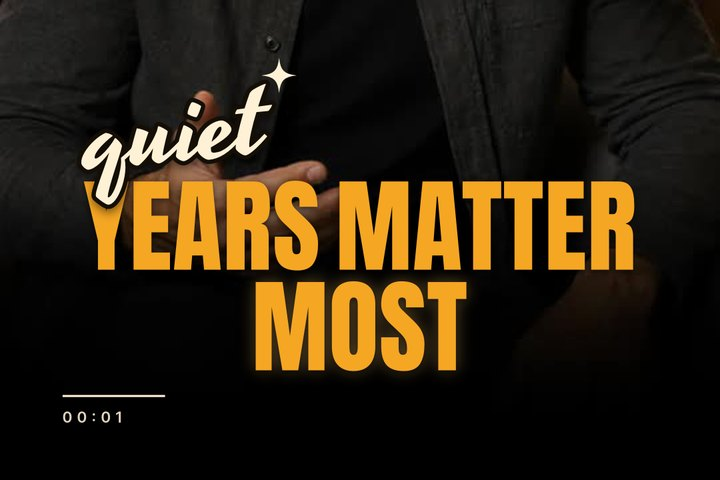
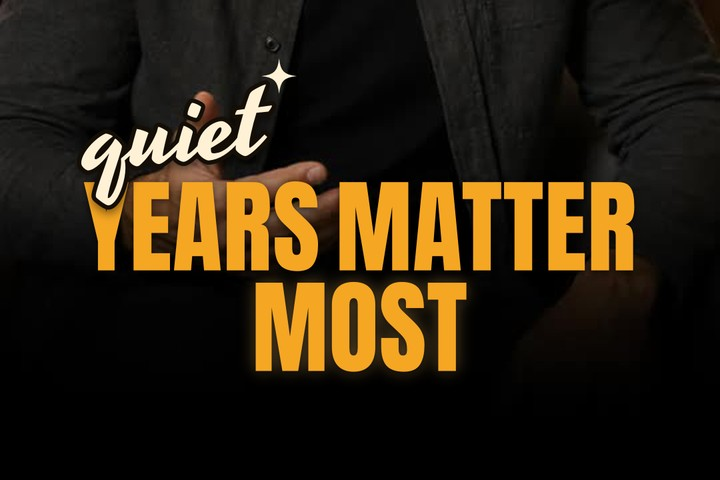
fix(captions): remove Premiere timestamp and line

diff --git a/packages/caption-scene/src/templates/premiere.ts b/packages/caption-scene/src/templates/premiere.ts
@@ -4,31 +4,28 @@ import { sampleFrames } from "../frames";
 import type { SceneCue, SceneInput, SceneProgram } from "../input";
 import { clampToSafeArea, cueDirection, fitScale, greedyRows, rowVisualOrder, sceneSpace } from "../layout";
 import { type Clip, type PathCmd, type Piece, type ShapePiece, type TextPiece, mixColour } from "../scene";
-import { rectPath } from "../shapes";
 
 /**
  * Premiere (`samples/templates/m04-poster.js`): a film-festival poster set as captions. Tall amber condensed caps (Anton)
  * wipe in word by word, each with a brief glow as it lands; the key word writes on in a cream retro script (Yesteryear,
- * tipped -6 degrees, a dark knockout around it) across the caps stack with a four-point sparkle popping at its end; a
- * hairline and a tiny credit line sit under the block, and the whole poster pushes in 3 % while the cue holds.
+ * tipped -6 degrees, a dark knockout around it) across the caps stack with a four-point sparkle popping at its end.
+ * The whole poster pushes in 3 % while the cue holds.
  *
  * Geometry is the sample's, read in Chrome (`probe-sample.ts`): caps 200 / 172 / 150 px by the cue's character count
  * (Anton, line box 0.98 em, baseline 0.9135 em, 0.16 em between words, rows wrapped greedily at 860 px), the script at
  * 1.12x with a 0.075 em knockout, its box padded 0.18 / 0.3 / 0.34 em and pulled over the caps by 0.5 / 0.48 / 0.4 em
- * (first / last / middle), the block centred on y 1290 with 26 px, a 3 px rule, 16 px and the credit line below.
+ * (first / last / middle), the block centred on y 1290 with bottom padding.
  *
  * What changed from the sample, and why (Gallery 2 brief):
- * - The credit line "IN CONVERSATION - EP. 12" was invented text: it is now the cue's own clip time (`00:12`), set the same way.
+ * - The timestamp and decorative line are omitted at the owner's request. Bottom padding keeps the spoken words in place.
  * - Caps size came from the cue's character count only; every cue now also fits its widest word to the row (no floor: a
  *   word cannot wrap), the script fits the safe width, and the whole block fits the safe height (16:9).
- * - A lone script word (no caps) had `dx = Infinity` and was pushed to the frame's edge: it is centred, and the rule
- *   clears it.
+ * - A lone script word (no caps) had `dx = Infinity` and was pushed to the frame's edge: it is centred.
  * - The script's placement is clamped to the safe area (the sample's 70 to 1010 px) and mirrors for right-to-left cues
- *   (caps wipe, rule and credit run from the right).
+ *   (caps wipe from the right).
  * - Recurring variants (the sample's cues are one fixed look): the script's tilt, the sparkle's corner and size cycle by a
- *   per-hero-cue counter; the rule's width and alignment (centre / leading / trailing) cycle by cue number; a cue without
- *   a script gets a sparkle too, on its last word's top corner, its first word's or its last word's bottom, cycling by
- *   its own counter. The sparkle twinkles while a cue holds. All jitter is a hash of the cue's index and text.
+ *   per-hero-cue counter; a cue without a script gets a sparkle too, on its last word's top corner, its first word's or its
+ *   last word's bottom, cycling by its own counter. The sparkle twinkles while a cue holds. All jitter is a hash of the cue's index and text.
  * - Exit: the sample's 120 ms fade ends 80 ms before the cue's end; it now never starts before the last word has landed
  *   and been readable for 150 ms (it shortens, down to 60 ms, and may run 60 ms into the next cue in fast speech).
  * - Glow: the sample's text-shadow of 18 to 44 px is a blurred copy of the word under it (sigma 0.1 em falling to 0.06 em),
@@ -52,7 +49,6 @@ const MAX_W = 860;
 const PAD = 0.24;
 const CAPS_FACE = "Anton" as const;
 const SCRIPT_FACE = "Yesteryear" as const;
-const MICRO_FACE = "Inter Tight SemiBold" as const;
 const CAPS_LS = 0.004;
 const KNOCKOUT = "#140E06";
 const GLOW_MIX = 0.3;
@@ -75,13 +71,6 @@ const OVERLAP_MS = 60;
 const EXIT_LIFT = 18;
 const EXIT_BLUR = 8;
 const READABLE_MS = 150;
-const RULE_H = 3;
-const RULE_WIDTHS = [200, 150, 260] as const;
-const FOOT_ALIGNS = ["center", "lead", "trail"] as const;
-const MICRO_SIZE = 22;
-const MICRO_LS = 0.34;
-const MICRO_BASELINE = 0.973;
-const MICRO_LINE = 26.5;
 const SPARKLE_SIZES = [23, 20, 26] as const;
 const HERO_SPOTS = ["trail-top", "lead-bottom", "lead-top", "trail-bottom"] as const;
 const PLAIN_SPOTS = ["last-top", "first-top", "last-bottom"] as const;
@@ -112,12 +101,6 @@ export function premiereHash(index: number, text: string): number {
 /** The sample's caps size in sample px from the cue's character count (a letter and a space per caps word). */
 export function premiereCapsSize(capsChars: number): number {
   return capsChars <= 10 ? 200 : capsChars <= 16 ? 172 : 150;
-}
-
-/** The credit line: the cue's own clip time, `mm:ss`. */
-export function premiereTimestamp(ms: number): string {
-  const seconds = Math.max(0, Math.floor(ms / 1000));
-  return `${String(Math.floor(seconds / 60)).padStart(2, "0")}:${String(seconds % 60).padStart(2, "0")}`;
 }
 
 const upper = (text: string) => (CASED.test(text) ? text.toUpperCase() : text);
@@ -183,8 +166,6 @@ function buildCue(cue: SceneCue, cueNumber: number, counters: { hero: number; pl
     rows: CapsRow[];
     hero: { fs: number; W: number; H: number; top: number; dx: number; reach: number } | null;
     height: number;
-    blockTop: number;
-    foot: { ruleTop: number; microTop: number; left: number; right: number };
   }
   const layout = (sz: number): Layout => {
     const gap = CAPS_GAP * sz;
@@ -217,7 +198,7 @@ function buildCue(cue: SceneCue, cueNumber: number, counters: { hero: number; pl
     const fs = SCRIPT_SCALE * sz * scriptScale;
     const W = scriptAdvance(fs) + 2 * SCRIPT_PAD.side * fs;
     const H = SCRIPT_BOX * fs;
-    // The script's margins by where it sits in the stack (the sample's `place`); alone it keeps clear of the rule.
+    // The script's margins by where it sits in the stack (the sample's `place`).
     const solo = leadRows.length === 0 && tailRows.length === 0;
     const spot = leadRows.length === 0 ? "first" : tailRows.length === 0 ? "last" : "middle";
     const margins = solo ? { top: 0, bottom: -0.12 * sz } : spot === "first" ? { top: 0, bottom: -0.5 * sz } : spot === "last" ? { top: -0.48 * sz, bottom: -0.12 * sz } : { top: -0.4 * sz, bottom: -0.4 * sz };
@@ -236,10 +217,7 @@ function buildCue(cue: SceneCue, cueNumber: number, counters: { hero: number; pl
       row.top = y;
       y += row.height;
     }
-    const footMargin = 26 * u;
-    const ruleTop = y + footMargin;
-    const microTop = ruleTop + RULE_H * u + 16 * u;
-    const height = microTop + MICRO_LINE * u;
+    const height = y + 71.5 * u;
     const blockTop = cy - height / 2;
     for (const row of [...leadRows, ...tailRows]) row.top += blockTop;
 
@@ -265,18 +243,10 @@ function buildCue(cue: SceneCue, cueNumber: number, counters: { hero: number; pl
       dx = lo <= hi ? clamp(dx, lo, hi) : 0;
       heroInfo = { fs, W, H, top: heroTop + blockTop, dx, reach };
     }
-    const lefts = [...leadRows, ...tailRows].map((row) => row.left);
-    const rights = [...leadRows, ...tailRows].map((row) => row.right);
-    if (heroInfo) {
-      lefts.push(cx + heroInfo.dx - heroInfo.reach / 2);
-      rights.push(cx + heroInfo.dx + heroInfo.reach / 2);
-    }
     return {
       rows: [...leadRows, ...tailRows],
       hero: heroInfo,
       height,
-      blockTop,
-      foot: { ruleTop: ruleTop + blockTop, microTop: microTop + blockTop, left: Math.min(...lefts), right: Math.max(...rights) },
     };
   };
 
@@ -336,7 +306,6 @@ function buildCue(cue: SceneCue, cueNumber: number, counters: { hero: number; pl
   const fromAll = cue.startMs - 60;
 
   // --- the caps: a left-to-right wipe with a blur settling and a glow that lights as the word lands ---
-  const firstCaps = capsIndices.length > 0 ? Math.min(...capsIndices.map((at) => cue.words[at]!.startMs)) : cue.startMs;
   for (const row of rows) {
     const baseline = row.top + row.up;
     const boxTop = row.top - PAD * size;
@@ -524,83 +493,6 @@ function buildCue(cue: SceneCue, cueNumber: number, counters: { hero: number; pl
     }
   }
 
-  // --- the hairline and the credit line (the cue's clip time), under the first caps word ---
-  const align = FOOT_ALIGNS[cueNumber % FOOT_ALIGNS.length]!;
-  const ruleW = RULE_WIDTHS[cueNumber % RULE_WIDTHS.length]! * u;
-  const ruleH = RULE_H * u;
-  const footAt = Math.max(cue.startMs, firstCaps);
-  const leadEdge = rtl ? laid.foot.right : laid.foot.left;
-  const trailEdge = rtl ? laid.foot.left : laid.foot.right;
-  // `end` is the rule's fixed end: its centre, its leading edge or its trailing edge.
-  const ruleEnd = align === "center" ? cx : align === "lead" ? leadEdge : trailEdge;
-  const ruleLeft = align === "center" ? cx - ruleW / 2 : (align === "lead") === !rtl ? ruleEnd : ruleEnd - ruleW;
-  const pivotDx = align === "center" ? ruleW / 2 : ruleEnd - ruleLeft;
-  const drawAt = footAt + 120;
-  const drawFrom = Math.max(fromAll, drawAt + 8);
-  const ruleTop = laid.foot.ruleTop;
-  if (exitTo > drawFrom) {
-    const draw = (t: number) => EASES.outExpo(prog(t, drawAt, 520));
-    const shape: ShapePiece = {
-      id: `premiere:${cueNumber}:rule`,
-      kind: "shape",
-      z: band + 3,
-      fromMs: drawFrom,
-      toMs: exitTo,
-      track: {
-        x: framesX(() => ruleLeft + pivotDx, drawFrom, exitTo),
-        y: framesY(() => ruleTop + ruleH / 2, drawFrom, exitTo),
-        sx: scaleFrames(draw, drawFrom, exitTo, [drawAt, drawAt + 520]),
-        sy: scaleFrames(() => 1, drawFrom, exitTo),
-        ...(exitTo > exitFrom ? { o: exitOpacity(() => 1, drawFrom, exitTo), blur: exitBlur(() => 0, drawFrom, exitTo) } : {}),
-      },
-      origin: { dx: pivotDx, dy: ruleH / 2 },
-      path: rectPath(0, 0, ruleW, ruleH),
-      fill: { colour: input.colours.accent },
-      shadows: [{ dx: 0, dy: 2 * u, blur: 3 * u, colour: SHADOW, alpha: 0.5 }],
-    };
-    pieces.push(shape);
-  }
-  const microText = premiereTimestamp(cue.startMs);
-  const microSize = MICRO_SIZE * u;
-  const microAdvance = input.measure(microText, MICRO_FACE, microSize, MICRO_LS).advance;
-  const microLeft = align === "center" ? cx - microAdvance / 2 : (align === "lead") === !rtl ? ruleEnd : ruleEnd - microAdvance;
-  const typeAt = footAt + 220;
-  const microFrom = Math.max(fromAll, typeAt + 4);
-  const microTop = laid.foot.microTop;
-  if (exitTo > microFrom) {
-    const type = (t: number) => prog(t, typeAt, 420);
-    const boxTop = microTop - 0.1 * microSize;
-    const boxBottom = microTop + MICRO_LINE * u + 0.1 * microSize;
-    const x1 = microLeft - 0.05 * microSize;
-    const x2 = microLeft + microAdvance + MICRO_LS * microSize;
-    const clip = rtl
-      ? rect((t) => x2 - type(t) * (x2 - x1), () => x2, boxTop, boxBottom, microFrom, exitTo, [typeAt, typeAt + 420])
-      : rect(() => x1, (t) => x1 + type(t) * (x2 - x1), boxTop, boxBottom, microFrom, exitTo, [typeAt, typeAt + 420]);
-    pieces.push({
-      id: `premiere:${cueNumber}:credit`,
-      kind: "text",
-      z: band + 3,
-      fromMs: microFrom,
-      toMs: exitTo,
-      track: {
-        x: framesX(() => microLeft, microFrom, exitTo),
-        y: framesY(() => microTop + MICRO_BASELINE * microSize, microFrom, exitTo),
-        sx: scaleFrames(() => 1, microFrom, exitTo),
-        sy: scaleFrames(() => 1, microFrom, exitTo),
-        o: exitOpacity(() => 0.88, microFrom, exitTo),
-        ...(exitTo > exitFrom ? { blur: exitBlur(() => 0, microFrom, exitTo) } : {}),
-      },
-      clip,
-      text: microText,
-      face: MICRO_FACE,
-      sizePx: microSize,
-      letterSpacingEm: MICRO_LS,
-      fill: input.colours.accent,
-      shadows: [{ dx: 0, dy: 2 * u, blur: 3 * u, colour: SHADOW, alpha: 0.7 }],
-      anchor: "baseline-left",
-      language: null,
-    });
-  }
   return clampToSafeArea(pieces, safe, input.measure);
 }
 

diff --git a/packages/caption-scene/src/premiere.test.ts b/packages/caption-scene/src/premiere.test.ts
@@ -3,7 +3,7 @@ import { demoCues, parseDemoScript, sceneEdgeDemo } from "./demo";
 import { EASES, prog } from "./ease";
 import type { SceneCue } from "./input";
 import { type Piece, type ShapePiece, type TextPiece, evaluatePiece } from "./scene";
-import { PREMIERE_DEMO, premiereCapsSize, premiereHash, premiereProgram, premiereTimestamp } from "./templates/premiere";
+import { PREMIERE_DEMO, premiereCapsSize, premiereHash, premiereProgram } from "./templates/premiere";
 import { fakeMeasure, sceneInput } from "./test-support";
 
 const COLOURS = { primary: "#F5A623", highlight: "#FFF1D6", accent: "#FFF1D6", shadow: "#000000" };
@@ -68,19 +68,10 @@ describe("Premiere geometry", () => {
     expect(hero.fill).toBe("#FFF1D6");
   });
 
-  test("a lone script word is centred (the sample pushed it to the frame's edge) and clears the rule", () => {
+  test("a lone script word is centred (the sample pushed it to the frame's edge) without a footer", () => {
     const lone = build(sceneEdgeDemo("one-word").cues);
     const hero = need<TextPiece>(find(lone, "0:hero"));
     expect(evaluatePiece(hero, 1000).x).toBeCloseTo(540, 0);
-    const rule = need<ShapePiece>(find(lone, "0:rule"));
-    const bottom = evaluatePiece(hero, 1000).y - hero.origin!.dy + 0.34 * hero.sizePx;
-    expect(evaluatePiece(rule, 1000).y).toBeGreaterThan(bottom - 0.2 * hero.sizePx);
-  });
-
-  test("the credit line is the cue's own clip time", () => {
-    expect(premiereTimestamp(1804)).toBe("00:01");
-    expect(premiereTimestamp(75_000)).toBe("01:15");
-    expect(need<TextPiece>(find(scene, "2:credit")).text).toBe("00:03");
   });
 });
 
@@ -154,22 +145,19 @@ describe("Premiere across a whole clip", () => {
     return demoCues({ lines, options: { rate: 290, cueGap: gap, tail: 800, lead: 350 } }).cues;
   };
 
-  test("every cue of a 24-cue clip keeps its rule, credit, sparkle and words (no cue-indexed tables)", () => {
+  test("every cue of a 24-cue clip keeps its sparkle and words without a timestamp or line", () => {
     const list = build(long(24));
     for (let n = 0; n < 24; n++) {
-      for (const part of ["rule", "credit", "star"]) expect(find(list, `${n}:${part}`)).toBeDefined();
+      expect(find(list, `${n}:star`)).toBeDefined();
+      for (const part of ["rule", "credit"]) expect(find(list, `${n}:${part}`)).toBeUndefined();
       expect(list.filter((piece) => piece.id.startsWith(`premiere:${n}:w`)).length).toBeGreaterThanOrEqual(3);
     }
   });
 
-  test("the decoration varies cue to cue: sparkle spots, script tilts, rule widths and alignments cycle", () => {
+  test("the decoration varies cue to cue: sparkle spots, sizes and script tilts cycle", () => {
     const list = build(long(24));
     const tilts = new Set(list.filter((piece) => piece.id.endsWith(":hero")).map((piece) => Math.round(evaluatePiece(piece, piece.fromMs + 600).rz * 10)));
     expect(tilts.size).toBeGreaterThanOrEqual(3);
-    const widths = new Set(list.filter((piece): piece is ShapePiece => piece.id.endsWith(":rule")).map((piece) => Math.round(Math.max(...piece.path.flatMap((cmd) => (cmd[0] === "Z" ? [] : [cmd[1] as number]))))));
-    expect(widths.size).toBe(3);
-    const origins = new Set(list.filter((piece) => piece.id.endsWith(":rule")).map((piece) => Math.sign(piece.origin!.dx - 1)));
-    expect(origins.size).toBeGreaterThanOrEqual(2);
     const stars = list.filter((piece) => piece.id.endsWith(":star"));
     const sizes = new Set(stars.map((piece) => Math.round((piece as ShapePiece).origin!.dx)));
     expect(sizes.size).toBe(3);
